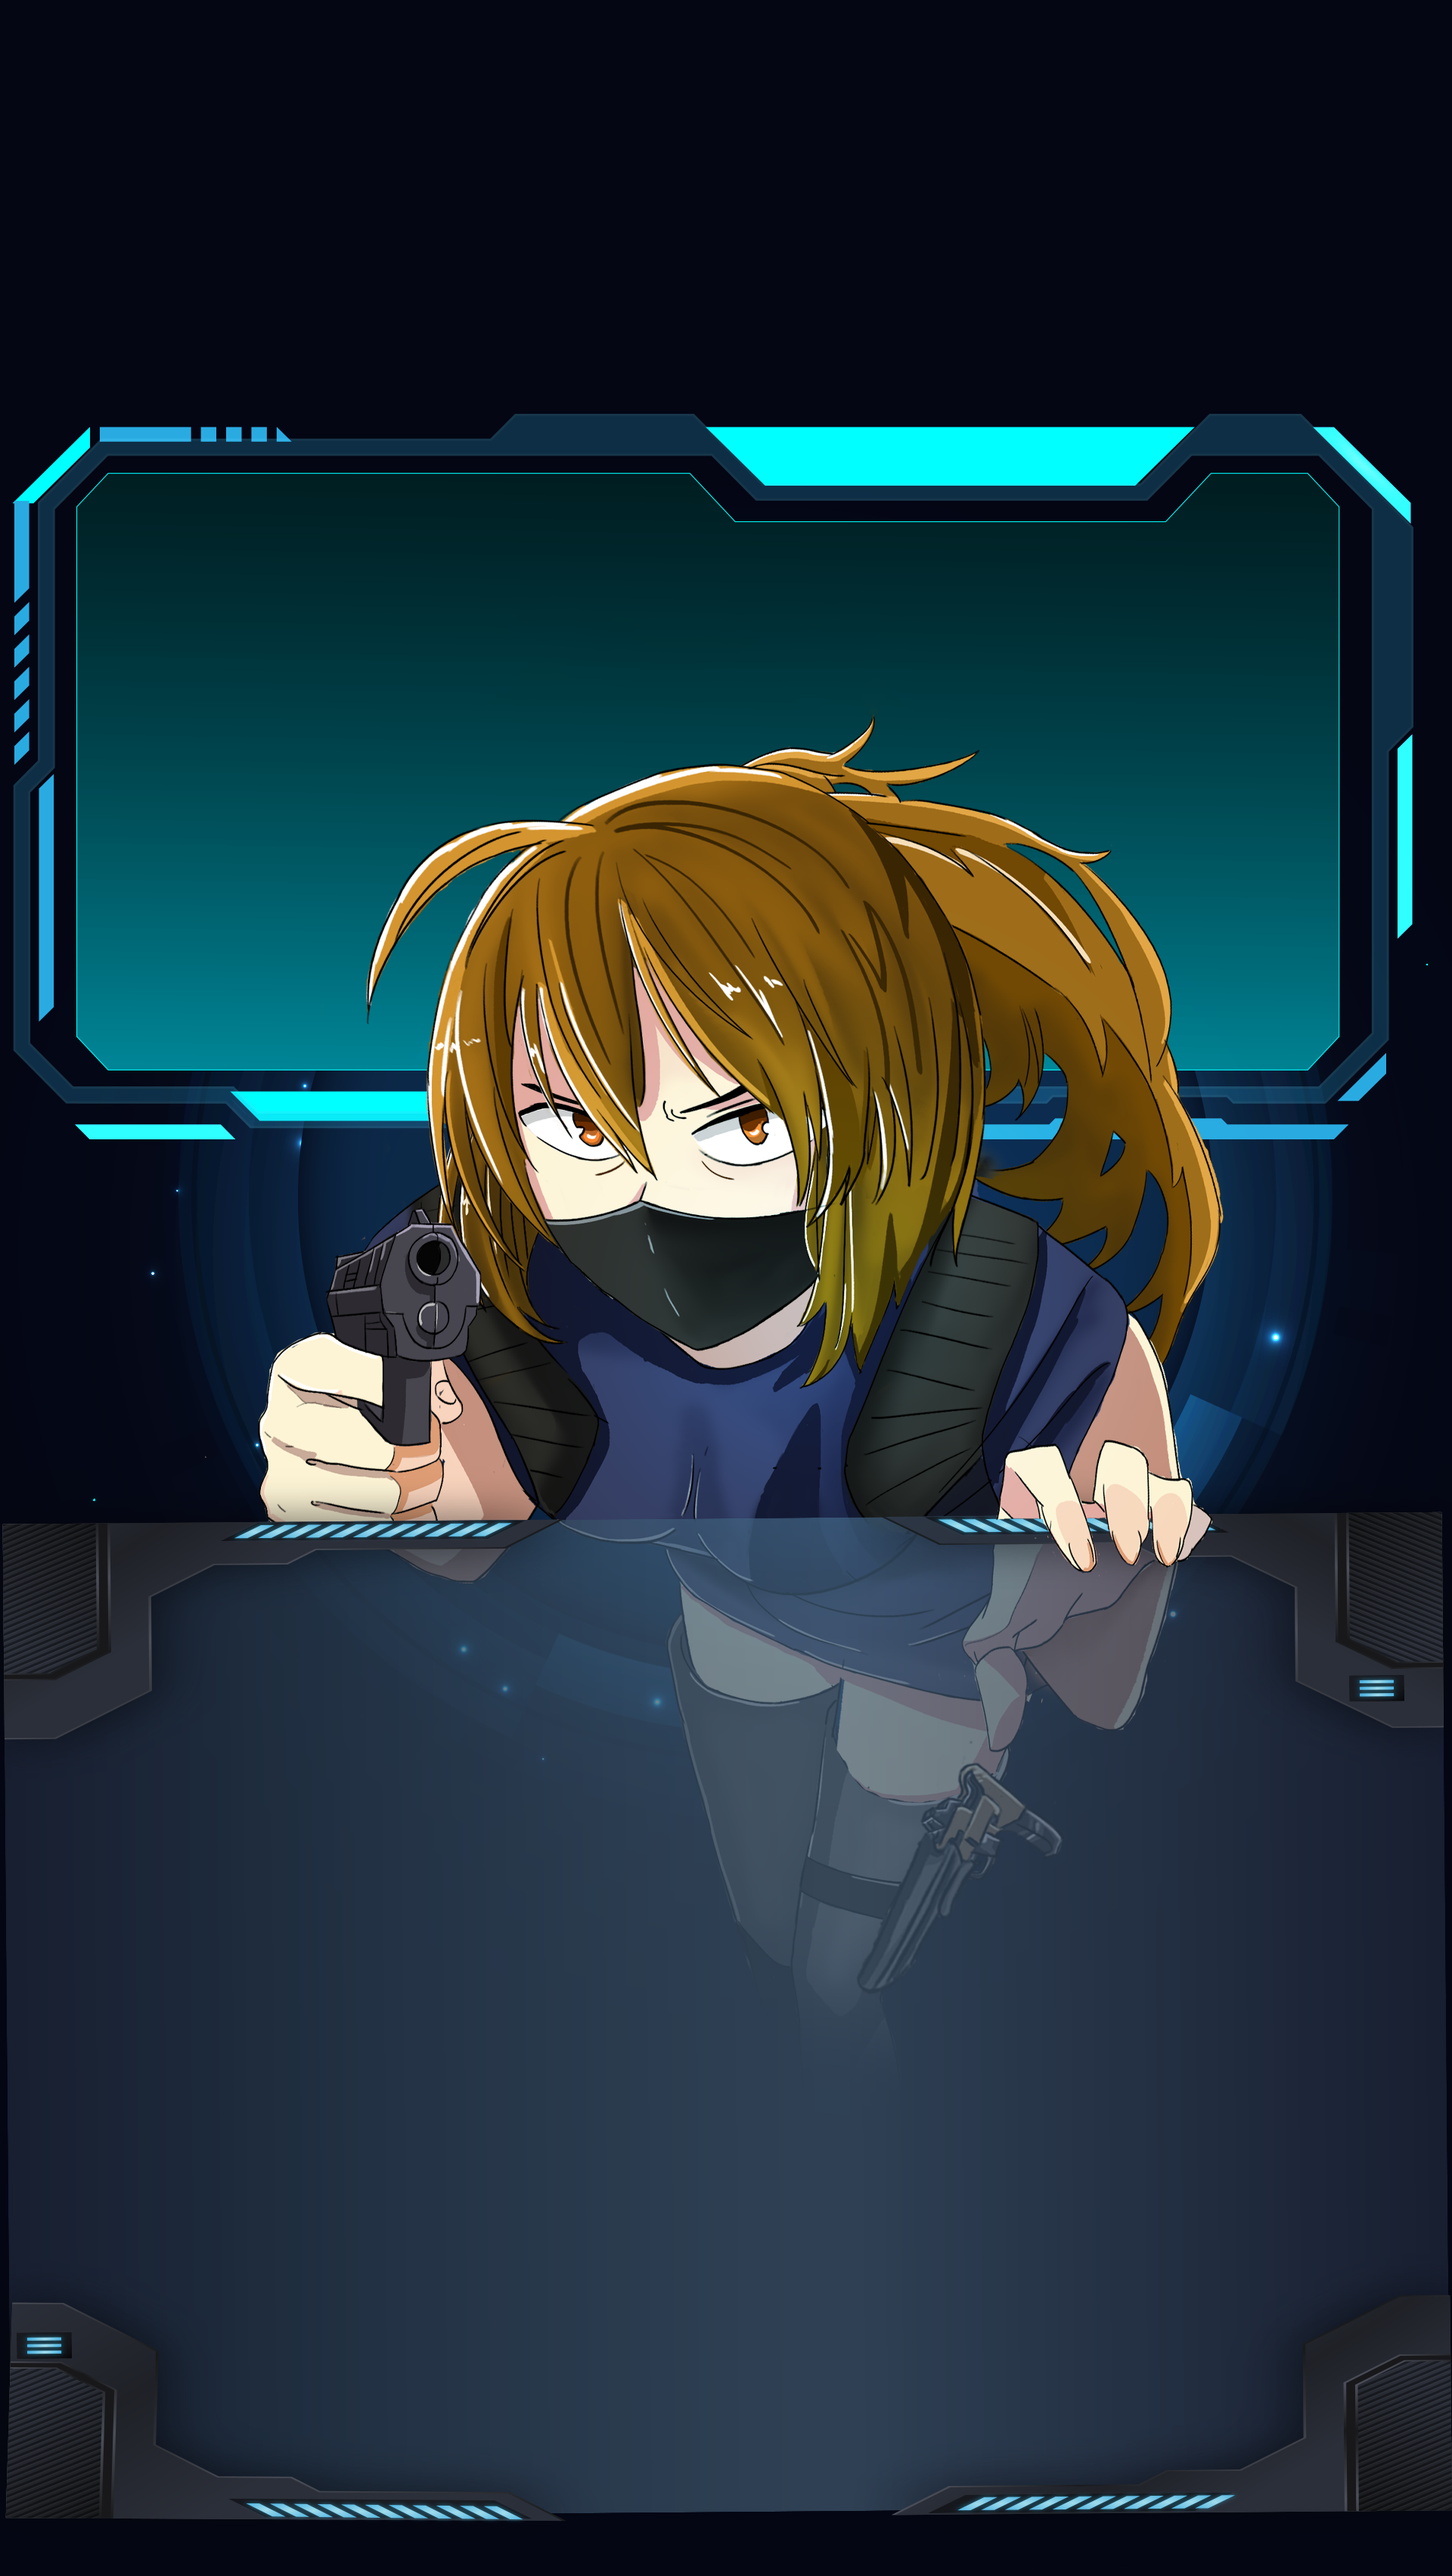
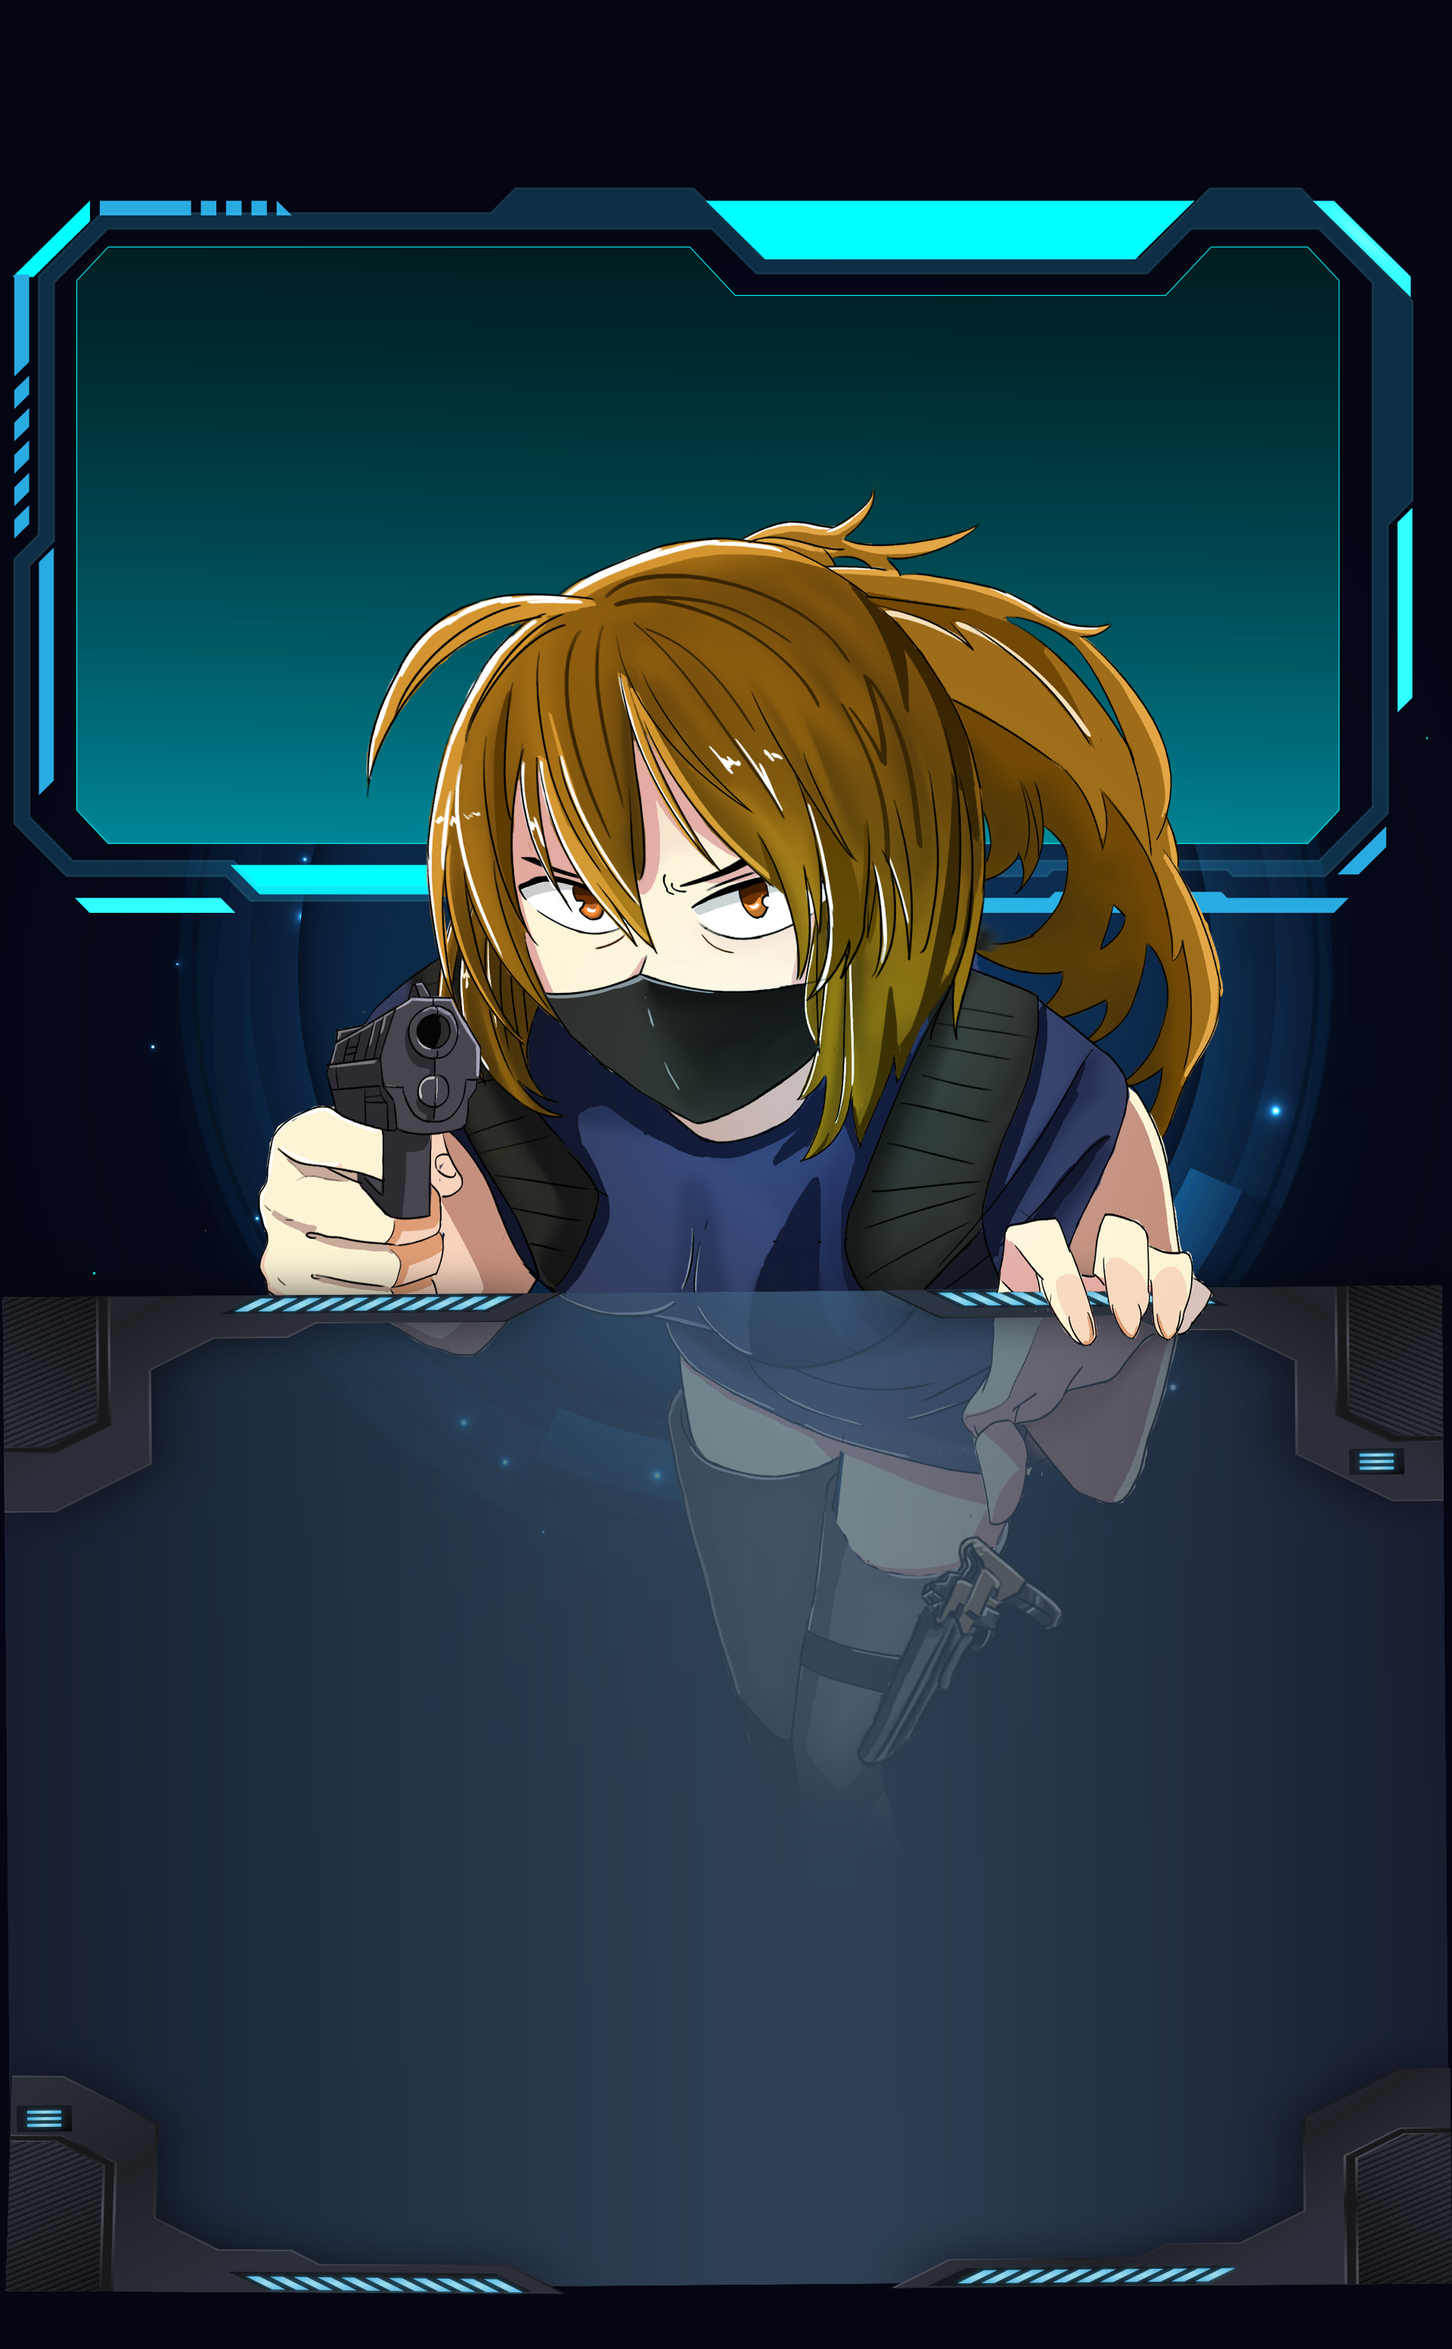
check

diff --git a/src/Components/startin/startin.js b/src/Components/startin/startin.js
@@ -1,3 +1,4 @@
+import "../../App.css";
 import React, { useEffect, useState } from "react";
 import { useWindowSize } from "../../useWindowSize";
 import squaretime from "./image/squaretime.png";
@@ -105,7 +106,7 @@ const Startin = ({ slots }) => {
     <div>
       <p
         className="absolute text"
-        style={{ fontSize: 100 * ratio, top: 1990 * ratio, left: 710 * ratio }}
+        style={{ fontSize: 100 * ratio, top: 1690 * ratio, left: 710 * ratio }}
       >
         START - IN
       </p>
@@ -116,7 +117,7 @@ const Startin = ({ slots }) => {
         style={{
           height: 129 * ratio,
           width: 758 * ratio,
-          top: 2150 * ratio,
+          top: 1850 * ratio,
           left: 545 * ratio,
         }}
       />
@@ -127,7 +128,7 @@ const Startin = ({ slots }) => {
           height: 126 * ratio,
           width: 142 * ratio,
           fontSize: 80 * ratio,
-          top: 2150 * ratio,
+          top: 1850 * ratio,
           left: 546 * ratio,
         }}
       >
@@ -140,7 +141,7 @@ const Startin = ({ slots }) => {
           height: 35 * ratio,
           width: 142 * ratio,
           fontSize: 30 * ratio,
-          top: 2240 * ratio,
+          top: 1940 * ratio,
           left: 545 * ratio,
         }}
       >
@@ -153,7 +154,7 @@ const Startin = ({ slots }) => {
           height: 126 * ratio,
           width: 142 * ratio,
           fontSize: 80 * ratio,
-          top: 2150 * ratio,
+          top: 1850 * ratio,
           left: 750 * ratio,
         }}
       >
@@ -166,7 +167,7 @@ const Startin = ({ slots }) => {
           height: 35 * ratio,
           width: 142 * ratio,
           fontSize: 30 * ratio,
-          top: 2240 * ratio,
+          top: 1940 * ratio,
           left: 750 * ratio,
         }}
       >
@@ -179,7 +180,7 @@ const Startin = ({ slots }) => {
           height: 126 * ratio,
           width: 142 * ratio,
           fontSize: 80 * ratio,
-          top: 2150 * ratio,
+          top: 1850 * ratio,
           left: 954 * ratio,
         }}
       >
@@ -192,7 +193,7 @@ const Startin = ({ slots }) => {
           height: 35 * ratio,
           width: 142 * ratio,
           fontSize: 30 * ratio,
-          top: 2240 * ratio,
+          top: 1940 * ratio,
           left: 954 * ratio,
         }}
       >
@@ -205,7 +206,7 @@ const Startin = ({ slots }) => {
           height: 126 * ratio,
           width: 142 * ratio,
           fontSize: 80 * ratio,
-          top: 2150 * ratio,
+          top: 1850 * ratio,
           left: 1158 * ratio,
         }}
       >
@@ -218,7 +219,7 @@ const Startin = ({ slots }) => {
           height: 35 * ratio,
           width: 142 * ratio,
           fontSize: 30 * ratio,
-          top: 2240 * ratio,
+          top: 1940 * ratio,
           left: 1158 * ratio,
         }}
       >
@@ -256,13 +257,13 @@ const Startin = ({ slots }) => {
         </a>
       )}
       ; */}
-      <table
-        className="absolute text-while"
+      <table 
+        className="absolute text-while custom-table"
         style={{
           fontSize: 30 * ratio,
           height: 300 * ratio,
           width: 1500 * ratio,
-          top: 2300 * ratio,
+          top: 2000 * ratio,
           left: 150 * ratio,
         }}
       >
@@ -276,38 +277,38 @@ const Startin = ({ slots }) => {
         </thead>
         <tbody>
           <tr>
-            <td>Total</td>
-            <td>4,000,000 APX</td>
-            <td>Token Name</td>
-            <td>Arena Pixel</td>
+            <td className="text-left">Total</td>
+            <td className="text-right">4,000,000 APX</td>
+            <td className="text-right" > <p  className="let-right">Token Name</p></td>
+            <td className="text-right">Arena Pixel</td>
           </tr>
           <tr>
-            <td>Allwance</td>
-            <td>4000 slots</td>
-            <td>Symbol</td>
-            <td>APX</td>
+            <td className="text-left">Allwance</td>
+            <td className="text-right">4000 slots</td>
+            <td className="text-right"><p  className="let-right">Symbol</p></td>
+            <td className="text-right">APX</td>
           </tr>
           <tr>
-            <td>Purchased</td>
+            <td className="text-left">Purchased</td>
             {isLoading ? (
-              <td>Loading...</td>
+              <td className="text-right">Loading...</td>
             ) : (
-              <td>{boughtSlots.toString()}</td>
+              <td className="text-right">{boughtSlots.toString()}</td>
             )}
-            <td>Contract</td>
-            <td>
-              <a>df68g...dhg5b</a>
+            <td  className="text-right"><p  className="let-right">Contract</p></td>
+            <td className="text-right">
+              <a  href="https://testnet.bscscan.com/address/0x875fb712e8f6d3c52ea0c0680a8368ff5d2ff85b" className="text-hiden" target="_blank">0x875fb...ff85b</a>
             </td>
           </tr>
           <tr>
-            <td>Available</td>
+            <td className="text-left">Available</td>
             {isLoading ? (
-              <td>Loading...</td>
+              <td className="text-right">Loading...</td>
             ) : (
-              <td>{(4000 - boughtSlots).toString()}</td>
+              <td className="text-right">{(4000 - boughtSlots).toString()}</td>
             )}
-            <td>Allocating per slot</td>
-            <td>50 USDT ~ 1000 APX</td>
+            <td className="text-right" ><p  className="let-right">Allocating per slot</p></td>
+            <td className="text-right">50 USDT ~ 1000 APX</td>
           </tr>
         </tbody>
       </table>

diff --git a/src/Components/info/info.js b/src/Components/info/info.js
@@ -22,20 +22,20 @@ const Info = () => {
         style={{
           height: 234 * ratio,
           width: 1607 * ratio,
-          top: 300 * ratio,
+          top: 50 * ratio,
           left: 120 * ratio,
         }}
       />
       <p
         className="absolute  text"
-        style={{ fontSize: 36 * ratio, top: 700 * ratio, left: 200 * ratio }}
+        style={{ fontSize: 36 * ratio, top: 400 * ratio, left: 200 * ratio }}
       >
         GameFi Tap to Earn NFT, with a completely unique gameplay and
         money-making method,
         <br />
         promises to evoke a plethora of emotions for users
       </p>
-      <a href={"https://arenapixel.io/"}>
+      <a target="_blank" href={"https://arenapixel.io/"}>
         <img
           src={webbuton}
           className="absolute"
@@ -43,12 +43,12 @@ const Info = () => {
           style={{
             height: 83 * ratio,
             width: 83 * ratio,
-            top: 850 * ratio,
+            top: 550 * ratio,
             left: 760 * ratio,
           }}
         />
       </a>
-      <a href={"https://t.me/arenapixel"}>
+      <a target="_blank" href={"https://t.me/arenapixel"}>
         <img
           src={telegrambutton}
           className="absolute"
@@ -56,12 +56,12 @@ const Info = () => {
           style={{
             height: 83 * ratio,
             width: 83 * ratio,
-            top: 850 * ratio,
+            top: 550 * ratio,
             left: 890 * ratio,
           }}
         />
       </a>
-      <a href={"https://twitter.com/ArenaPixel"}>
+      <a target="_blank" href={"https://twitter.com/ArenaPixel"}>
         <img
           src={twtbutton}
           className="absolute"
@@ -69,13 +69,13 @@ const Info = () => {
           style={{
             height: 83 * ratio,
             width: 83 * ratio,
-            top: 850 * ratio,
+            top: 550 * ratio,
             left: 1030 * ratio,
           }}
         />
       </a>
 
-      <a href="#">
+      <a target="_blank" href="https://market.arenapixel.io/">
         <img
           src={marrketplace}
           className="absolute"
@@ -83,12 +83,12 @@ const Info = () => {
           style={{
             height: 100 * ratio,
             width: 359 * ratio,
-            top: 900 * ratio,
+            top: 600 * ratio,
             left: 150 * ratio,
           }}
         />
       </a>
-      <a href="#">
+      <a target="_blank" href="https://arenapixel.io/pitchdeck.html">
         <img
           src={pitchdeck}
           className="absolute"
@@ -96,12 +96,12 @@ const Info = () => {
           style={{
             height: 100 * ratio,
             width: 359 * ratio,
-            top: 870 * ratio,
+            top: 570 * ratio,
             left: 1390 * ratio,
           }}
         />
       </a>
-      <a href="#">
+      <a target="_blank" href="https://arenapixels-organization.gitbook.io/arena-pixel-whitepaper/">
         <img
           src={wwhitpaper}
           className="absolute"
@@ -109,12 +109,12 @@ const Info = () => {
           style={{
             height: 100 * ratio,
             width: 359 * ratio,
-            top: 1030 * ratio,
+            top: 730 * ratio,
             left: 150 * ratio,
           }}
         />
       </a>
-      <a href="#">
+      <a target="_blank" href="https://testnet.arenapixel.io/">
         <img
           src={gamebt}
           className="absolute"
@@ -122,7 +122,7 @@ const Info = () => {
           style={{
             height: 100 * ratio,
             width: 359 * ratio,
-            top: 1000 * ratio,
+            top: 700 * ratio,
             left: 1390 * ratio,
           }}
         />

diff --git a/src/App.js b/src/App.js
@@ -12,7 +12,7 @@ import { PurchaseModal } from "./Components/popup/popup";
 import { getStartTime, getEndTime } from "./hooks/getPaymentTime";
 
 function App() {
-  const { size } = useWindowSize({ gameWidth: 1920, gameHeight: 3405 });
+  const { size } = useWindowSize({ gameWidth: 1920, gameHeight: 3106 });
   const { rotate, width, height, marginLeft, ratio } = size;
 
  
@@ -112,7 +112,7 @@ function App() {
             style={{
               height: 76 * ratio,
               width: 386 * ratio,
-              top: 2610 * ratio,
+              top: 2310 * ratio,
               left: 760 * ratio,
             }}
           />
@@ -126,14 +126,14 @@ function App() {
             style={{
               height: 76 * ratio,
               width: 386 * ratio,
-              top: 2610 * ratio,
+              top: 2310 * ratio,
               left: 760 * ratio,
             }}
             onClick={connectWallet}
           />
         </a>
       )}
-      ;
+      
       <Vestingschedule wallet={walletAddress} />
       <PurchaseModal
         isOpened={modalOpen}
@@ -148,7 +148,7 @@ function App() {
         style={{
           height: 234 * ratio,
           width: 512 * ratio,
-          top: 3150 * ratio,
+          top: 2850 * ratio,
           left: 700 * ratio,
         }}
       />

diff --git a/src/Components/vestingschedule/vestingschedule.js b/src/Components/vestingschedule/vestingschedule.js
@@ -111,7 +111,7 @@ export const Vestingschedule = ({ wallet }) => {
     <div>
       <p
         className="absolute text "
-        style={{ fontSize: 60 * ratio, top: 2715 * ratio, left: 670 * ratio }}
+        style={{ fontSize: 60 * ratio, top: 2415 * ratio, left: 670 * ratio }}
       >
         VESTING SCHEDULE
       </p>
@@ -121,7 +121,7 @@ export const Vestingschedule = ({ wallet }) => {
           fontSize: 23 * ratio,
           height: 360 * ratio,
           width: 1500 * ratio,
-          top: 2800 * ratio,
+          top: 2500 * ratio,
           left: 150 * ratio,
         }}
       >

diff --git a/src/App.css b/src/App.css
@@ -16,6 +16,7 @@
   text-align: center;
   color: white;
 }
+
 .boder{
   border: 1px white solid;
 }
@@ -33,4 +34,24 @@
 
 .button:hover {
   cursor: pointer;
+}
+.text-hiden {
+  text-decoration: none; 
+  color: white; 
+}
+.text-left{
+  text-align: left;
+}
+.text-right{
+  text-align: right;
+}
+.custom-table {
+  border-collapse: separate;
+  border-spacing: 0 50px 0 50px; 
+}
+.let-right{
+  float: right;
+  text-align: left;
+  width: 55%;
+ 
 }

diff --git a/src/Components/popup/popup.js b/src/Components/popup/popup.js
@@ -100,6 +100,7 @@ export const PurchaseModal = ({ isOpened, wallet, onUpdateSlots, onClose }) => {
             backgroundImage: `url(${backgroudPop})`,
             backgroundSize: "cover",
             backgroundRepeat: "no-repeat",
+            outline:"none",
           }}
         >
           <Typography
